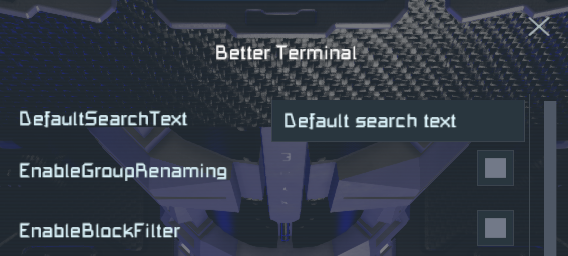
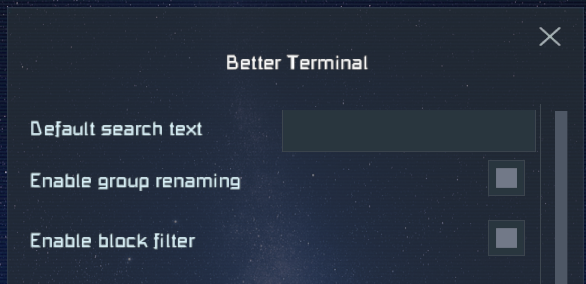
Config dialog labels

diff --git a/ClientPlugin/Settings/Elements/Slider.cs b/ClientPlugin/Settings/Elements/Slider.cs
@@ -19,20 +19,22 @@ namespace ClientPlugin.Settings.Elements
         public readonly float Max;
         public readonly float Step;
         public readonly SliderType Type;
+        public readonly string Label;
         public readonly string Description;
 
-        public SliderAttribute(float min, float max, float step = 1f, SliderType type = SliderType.Float, string description = null)
+        public SliderAttribute(float min, float max, float step = 1f, SliderType type = SliderType.Float, string label = null, string description = null)
         {
             Min = min;
             Max = max;
             Step = step;
             Type = type;
+            Label = label;
             Description = description;
         }
 
         public List<MyGuiControlBase> GetElements(string name, Func<object> propertyGetter, Action<object> propertySetter)
         {
-            var label = new MyGuiControlLabel();
+            var valueLabel = new MyGuiControlLabel();
 
             void ValueUpdate(MyGuiControlSlider element)
             {
@@ -41,12 +43,12 @@ namespace ClientPlugin.Settings.Elements
                     case SliderType.Integer:
                         int intValue = Convert.ToInt32(element.Value);
                         propertySetter(intValue);
-                        label.Text = intValue.ToString();
+                        valueLabel.Text = intValue.ToString();
                         break;
 
                     case SliderType.Float:
                         propertySetter(element.Value);
-                        label.Text = MyValueFormatter.GetFormatedFloat(element.Value, element.LabelDecimalPlaces);
+                        valueLabel.Text = MyValueFormatter.GetFormatedFloat(element.Value, element.LabelDecimalPlaces);
                         break;
                 }
             }
@@ -88,10 +90,11 @@ namespace ClientPlugin.Settings.Elements
 
             ValueUpdate(slider);
 
+            var label = Tools.GetLabelOrDefault(name, Label);
             return new List<MyGuiControlBase>()
             {
-                new MyGuiControlLabel(text: name),
-                label,
+                new MyGuiControlLabel(text: label),
+                valueLabel,
                 slider,
             };
         }

diff --git a/ClientPlugin/Settings/Elements/Dropdown.cs b/ClientPlugin/Settings/Elements/Dropdown.cs
@@ -8,6 +8,7 @@ namespace ClientPlugin.Settings.Elements
     internal class DropdownAttribute : Attribute, IElement
     {
         public readonly int VisibleRows;
+        public readonly string Label;
         public readonly string Description;
 
         private static string UnCamelCase(string str)
@@ -23,9 +24,10 @@ namespace ClientPlugin.Settings.Elements
             );
         }
 
-        public DropdownAttribute(int visibleRows = 20, string description = null)
+        public DropdownAttribute(int visibleRows = 20, string label = null, string description = null)
         {
             VisibleRows = visibleRows;
+            Label = label;
             Description = description;
         }
 
@@ -54,9 +56,10 @@ namespace ClientPlugin.Settings.Elements
             dropdown.ItemSelected += OnItemSelect;
             dropdown.SelectItemByIndex(Convert.ToInt32(selectedEnum));
 
+            var label = Tools.GetLabelOrDefault(name, Label);
             return new List<MyGuiControlBase>()
             {
-                new MyGuiControlLabel(text: name),
+                new MyGuiControlLabel(text: label),
                 dropdown,
             };
         }

diff --git a/ClientPlugin/Settings/Elements/Keybind.cs b/ClientPlugin/Settings/Elements/Keybind.cs
@@ -14,13 +14,15 @@ namespace ClientPlugin.Settings.Elements
 {
     internal class KeybindAttribute : Attribute, IElement
     {
+        public readonly string Label;
         public readonly string Description;
 
         public Func<MyKeys> PropertyGetter;
         public Action<MyKeys> PropertySetter;
 
-        public KeybindAttribute(string description = null)
+        public KeybindAttribute(string label = null, string description = null)
         {
+            Label = label;
             Description = description;
         }
 
@@ -29,7 +31,7 @@ namespace ClientPlugin.Settings.Elements
             PropertyGetter = ()=>(MyKeys)propertyGetter();
             PropertySetter = (MyKeys key)=>propertySetter(key);
 
-            var label = new MyGuiControlLabel(text: name);
+            var label = new MyGuiControlLabel(text: Tools.GetLabelOrDefault(name, Label));
 
             var control = new MyControl(
                 MyStringId.GetOrCompute($"{name.Replace(" ", "")}Keybind"),

diff --git a/ClientPlugin/Settings/Elements/Button.cs b/ClientPlugin/Settings/Elements/Button.cs
@@ -7,16 +7,20 @@ namespace ClientPlugin.Settings.Elements
 {
     internal class ButtonAttribute : Attribute, IElement
     {
+        public readonly string Label;
         public readonly string Description;
 
-        public ButtonAttribute(string description = null)
+        public ButtonAttribute(string label = null, string description = null)
         {
+            
+            Label = label;
             Description = description;
         }
 
         public List<MyGuiControlBase> GetElements(string name, Func<object> propertyGetter, Action<object> propertySetter)
         {
-            var button = new MyGuiControlButton(text: new StringBuilder(name), toolTip: Description);
+            var label = Tools.GetLabelOrDefault(name, Label);
+            var button = new MyGuiControlButton(text: new StringBuilder(label), toolTip: Description);
             button.ButtonClicked += (_)=>((Action)propertyGetter())();
 
             return new List<MyGuiControlBase>() { button };

diff --git a/ClientPlugin/Settings/Elements/Checkbox.cs b/ClientPlugin/Settings/Elements/Checkbox.cs
@@ -6,18 +6,21 @@ namespace ClientPlugin.Settings.Elements
 {
     class CheckboxAttribute : Attribute, IElement
     {
+        public readonly string Label;
         public readonly string Description;
 
-        public CheckboxAttribute(string description = null)
+        public CheckboxAttribute(string label = null, string description = null)
         {
+            Label = label;
             Description = description;
         }
 
         public List<MyGuiControlBase> GetElements(string name, Func<object> propertyGetter, Action<object> propertySetter)
         {               
+            var label = Tools.GetLabelOrDefault(name, Label);
             return new List<MyGuiControlBase>()
             {
-                new MyGuiControlLabel(text: name),
+                new MyGuiControlLabel(text: label),
                 new MyGuiControlCheckbox(toolTip: Description)
                 {
                     IsChecked = (bool)propertyGetter(),

diff --git a/ClientPlugin/Settings/Elements/Textbox.cs b/ClientPlugin/Settings/Elements/Textbox.cs
@@ -6,10 +6,12 @@ namespace ClientPlugin.Settings.Elements
 {
     internal class TextboxAttribute : Attribute, IElement
     {
+        public readonly string Label;
         public readonly string Description;
 
-        public TextboxAttribute(string description = null)
+        public TextboxAttribute(string label = null, string description = null)
         {
+            Label = label;
             Description = description;
         }
 
@@ -19,9 +21,10 @@ namespace ClientPlugin.Settings.Elements
             textBox.TextChanged += (box)=>propertySetter(box.Text);
             textBox.SetToolTip(Description);
 
+            var label = Tools.GetLabelOrDefault(name, Label);
             return new List<MyGuiControlBase>()
             {
-                new MyGuiControlLabel(text: name),
+                new MyGuiControlLabel(text: label),
                 textBox,
             };
         }

diff --git a/ClientPlugin/Settings/Elements/Tools.cs b/ClientPlugin/Settings/Elements/Tools.cs
@@ -1,0 +1,29 @@
+using System.Diagnostics;
+using System.Linq;
+using System.Text.RegularExpressions;
+
+namespace ClientPlugin.Settings.Elements
+{
+    public static class Tools
+    {
+        private static readonly Regex UpperCaseWordRegex = new Regex(@"[A-Z][a-z]*", RegexOptions.Compiled);
+
+        public static string GetLabelOrDefault(string name, string label = null)
+        {
+            Debug.Assert(!string.IsNullOrEmpty(name) && name.Trim().Length != 0);
+
+            if (label != null)
+                return label;
+
+            var words = UpperCaseWordRegex.Matches(name).Cast<Match>().Select(m => m.Value).ToArray();
+            Debug.Assert(words.Length != 0);
+
+            for (var i = 1; i < words.Length; i++)
+            {
+                words[i] = words[i].ToLower();
+            }
+
+            return string.Join(" ", words);
+        }
+    }
+}

diff --git a/README.md b/README.md
@@ -20,6 +20,50 @@ Please consider supporting my work on [Patreon](https://www.patreon.com/semods) 
 3. In the new **Plugins** menu add the "Better Terminal" plugin
 4. Apply and restart the game as requested
 
+## Features
+
+### Control Panel
+
+#### Renaming groups
+
+There is a new **Rename button** under the group name. 
+
+Select the group to rename, edit the name in the group name text box, then click Rename.
+Any block toolbars referencing the group will be updated automatically, 
+so there will be no broken slots.
+
+![Block group renaming](doc/BlockRenaming.png "Rename Group")
+
+#### Block filter
+
+There is a **dropdown list** below the block search field.
+You can filter the block list for various **common situations**,
+by **block group** and by **block type**. 
+
+The default filter mode is identical to the default SE behavior
+except of fixing the bug with initial scroll position of the block list.
+
+_The block filter is reset to default mode each time you open
+the Terminal UI to prevent confusion._
+
+![Block filters](doc/BlockFilters.png "Block Filters")
+
+#### Default block names
+
+There is a **checkbox** right next to the block filter dropdown.
+
+It **toggles showing the default block names** instead of the player defined custom ones.
+This is really useful to find blocks by their type, regardless of how they were renamed.
+
+Enabling this feature will **not** rename your blocks back to their default name.
+All it does is changing the list to show the default names until it is enabled.
+You can still see the custom block names in the tooltips as you hover over the
+blocks in the list.
+
+_The default name checkbox is cleared each time you open the Terminal UI to prevent confusion._
+
+![Show/hide default block names](doc/DefaultBlockNames.png "Show/Hide Default Block Names")
+
 ## Configuration
 
 Press `Ctrl-Alt-/` while in-game and not in the GUI. It will open the list of
@@ -36,41 +80,6 @@ transpiler patches are always loaded, but they provided the same functionality a
 the original game if it is disabled.
 
 ![Configuration](doc/ConfigDialog.png "Config Dialog")
-
-## Features
-
-### Control Panel
-
-#### Rename group
-
-There is a new **Rename** button under the group name. Select the group to rename,
-edit the name in the group name text box, then click Rename. Any block toolbars
-referencing the group will be updated automatically, so there will be no broken slots.
-
-![Block group renaming](doc/BlockRenaming.png "Rename Group")
-
-#### Block filter
-
-There is a new dropdown below the block search field. 
-You can filter the block list for various common situations,
-by any named group or by block type. The default filter mode
-is identical to the default SE behavior except of fixing the
-bug with initial scroll position of the block list.
-
-The block filter is reset to default mode each time you open
-the Terminal UI to prevent confusion.
-
-![Block filters](doc/BlockFilters.png "Block Filters")
-
-#### Default block names
-
-There is a new checkbox right next to the block filter dropdown.
-It toggles showing the default block names instead of the player defined ones.
-This is really useful to find blocks by their type, regardless of how they were renamed.
-
-The default name checkbox is cleared each time you open the Terminal UI to prevent confusion.
-
-![Show/hide default block names](doc/DefaultBlockNames.png "Show/Hide Default Block Names")
 
 ## Troubleshooting
 
